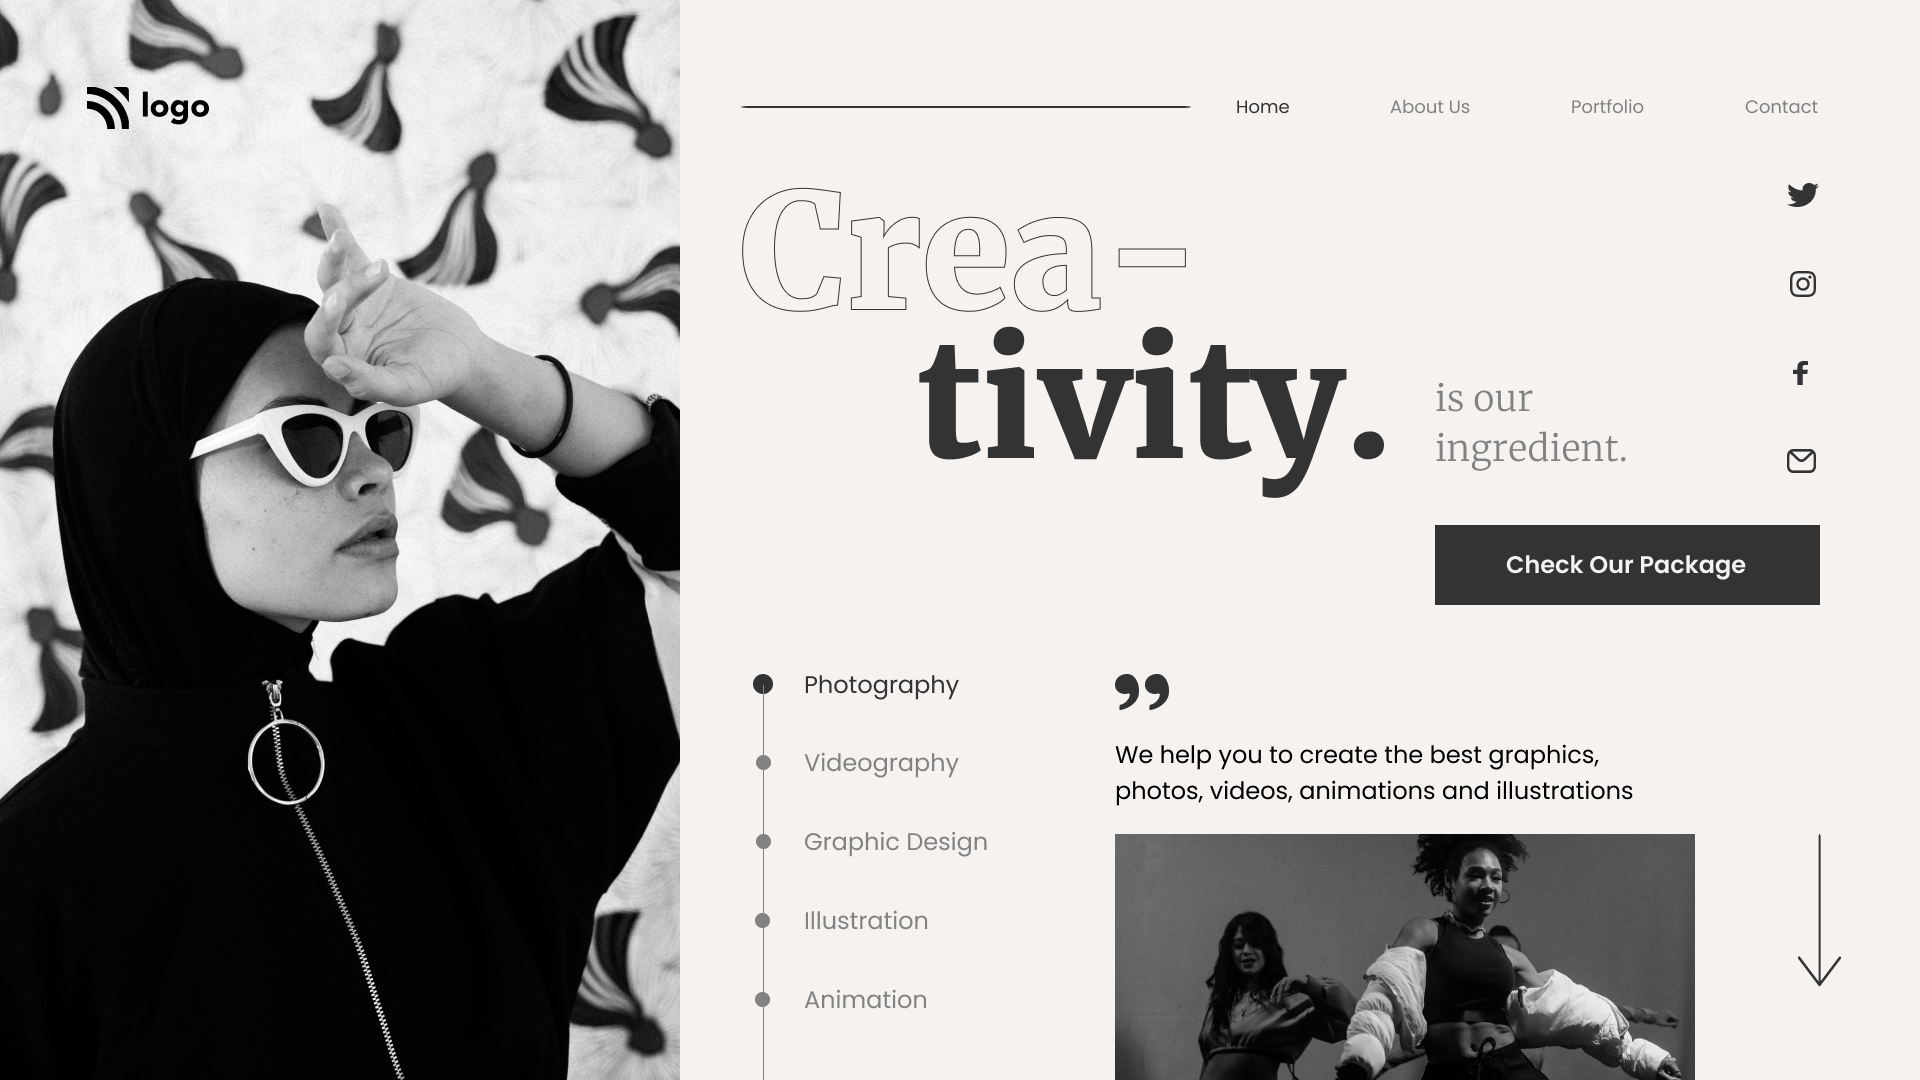
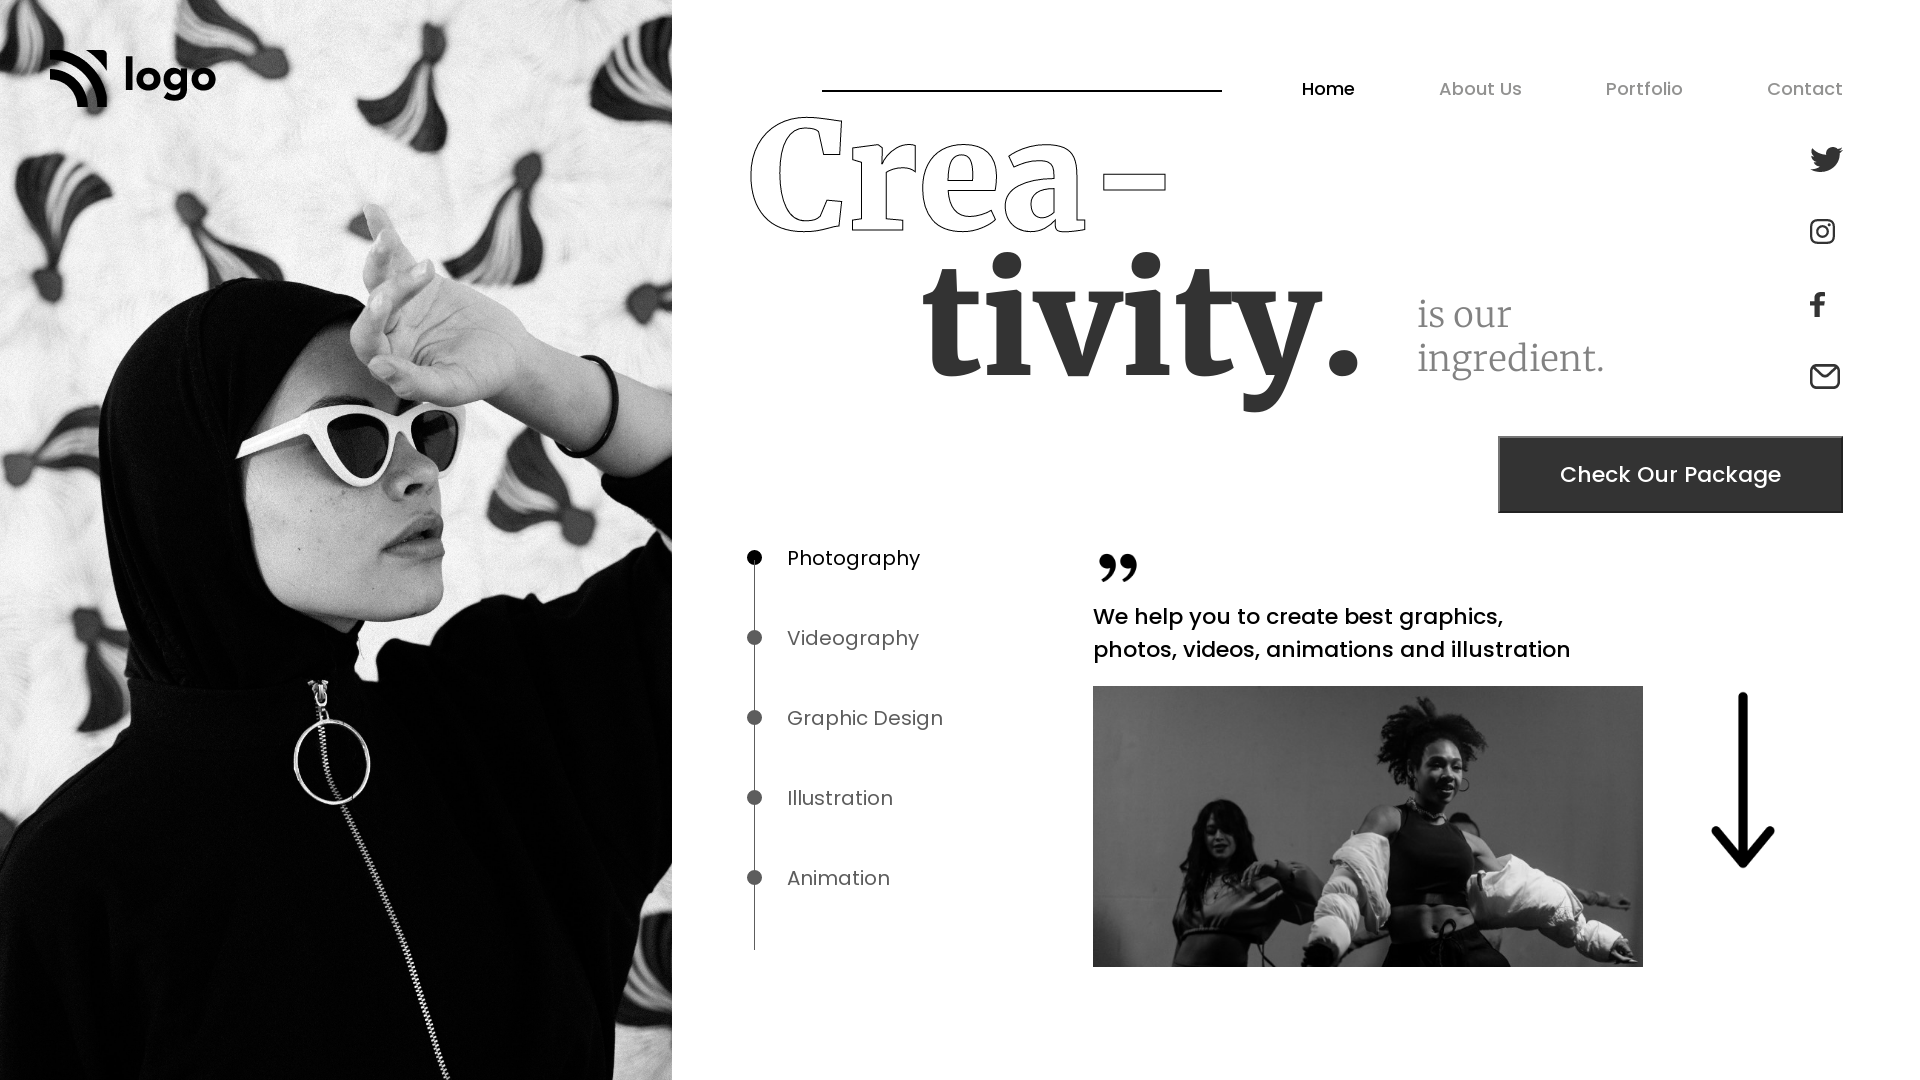
Added Responsiveness to the website

diff --git a/style.css b/style.css
@@ -34,6 +34,9 @@ nav {
     display: flex;
     justify-content: flex-end;
 }
+.nav-logo {
+    display: none;
+}
 
 .nav-list {
     list-style-type: none;
@@ -69,6 +72,11 @@ nav::before {
 
 .creativity {
     width: 620px;
+    max-width: calc(100% - 20px);
+}
+
+.creativity-image {
+    display: none;
 }
 
 .part-1, .part-2 {
@@ -84,7 +92,7 @@ nav::before {
 }
 
 .part-2 {
-    float: right;
+    text-align: right;
     color: #333333;
 }
 
@@ -133,6 +141,7 @@ nav::before {
     font-size: 1.2rem;
     color: #5d5d5d;
     align-self: flex-start;
+    width: 200px;
 }
 
 .path-item span {
@@ -178,6 +187,106 @@ nav::before {
     font-weight: 500;
 }
 
+.dance-image {
+    width: 550px;
+    max-width: 100%;
+}
+
 .arrow {
     margin-top: 50px;
+}
+
+@media only screen and (max-width: 1280px) {
+    .container {
+        overflow: auto;
+        width: 100vw;
+    }
+    .left-container {
+        display: none;
+    }
+
+    nav {
+        justify-content: space-between;
+        margin-top: 50px;
+    }
+
+    nav::before {
+        display: none;
+        width: 0;
+    }
+
+    .right-container {
+        padding: 0 10px;
+        width: 100%;
+    }
+
+    .nav-logo {
+        display: inline-block;
+    }
+
+    .creativity-container , .bottom-container {
+        flex-wrap: wrap;
+        flex-direction: column;
+        align-items: center;
+    }
+
+    .creativity {
+        text-align: center;
+        width: 100%;
+    }
+
+    .creativity-image {
+        display: block;
+    }
+
+    .creativity-image img {
+        width: 500px;
+        max-width: 100%;
+    }
+
+    .part-1, .part-2 {
+        max-width: 100%;
+        width: 40%;
+        display: inline;
+    }
+    
+    .part-1 span {
+        display: none;
+    }
+
+    .text {
+        margin-left: 0;
+        text-align: center;
+        width: 100%;
+    }
+
+    .path{
+        margin: 0 auto;
+    }
+    
+    .quote {
+        margin-left: 0;
+        margin-top: 50px;
+        text-align: center;
+    }
+
+    .social-media {
+        margin-right: auto;
+        flex-direction: row;
+        column-gap: 25px;
+    }
+
+    .btn-container {
+        text-align: center;
+    }
+}
+
+@media only screen and (max-width: 768px) {
+    .nav-list {
+        display: none;
+    }
+
+    .part-1, .part-2 {
+        font-size: 64px;
+    }
 }

diff --git a/index.html b/index.html
@@ -17,6 +17,7 @@
         </div>
         <div class="right-container">
             <nav>
+                <img class="nav-logo" src="./assets/logo.png" alt="" srcset="">
                 <ul class="nav-list">
                     <li class="nav-list-item nav-active">Home</li>
                     <li class="nav-list-item">About Us</li>
@@ -25,8 +26,11 @@
                 </ul>
             </nav>
             <div class="creativity-container">
+                <div class="creativity-image">
+                    <img src="./assets/bg-1.jpg" alt="">
+                </div>
                 <div class="creativity">
-                    <h1 class="part-1">Crea-</h1>
+                    <h1 class="part-1">Crea<span>-</span></h1>
                     <h1 class="part-2">tivity.</h1>
                 </div>
                 <p class="text">
@@ -79,7 +83,7 @@
                         photos, videos, animations and illustration
                     </p>
                     <div>
-                        <img width="550px" src="./assets/bg-2.jpg" alt="">
+                        <img class="dance-image" src="./assets/bg-2.jpg" alt="">
                     </div>
                 </div>
                 <div class="arrow">
